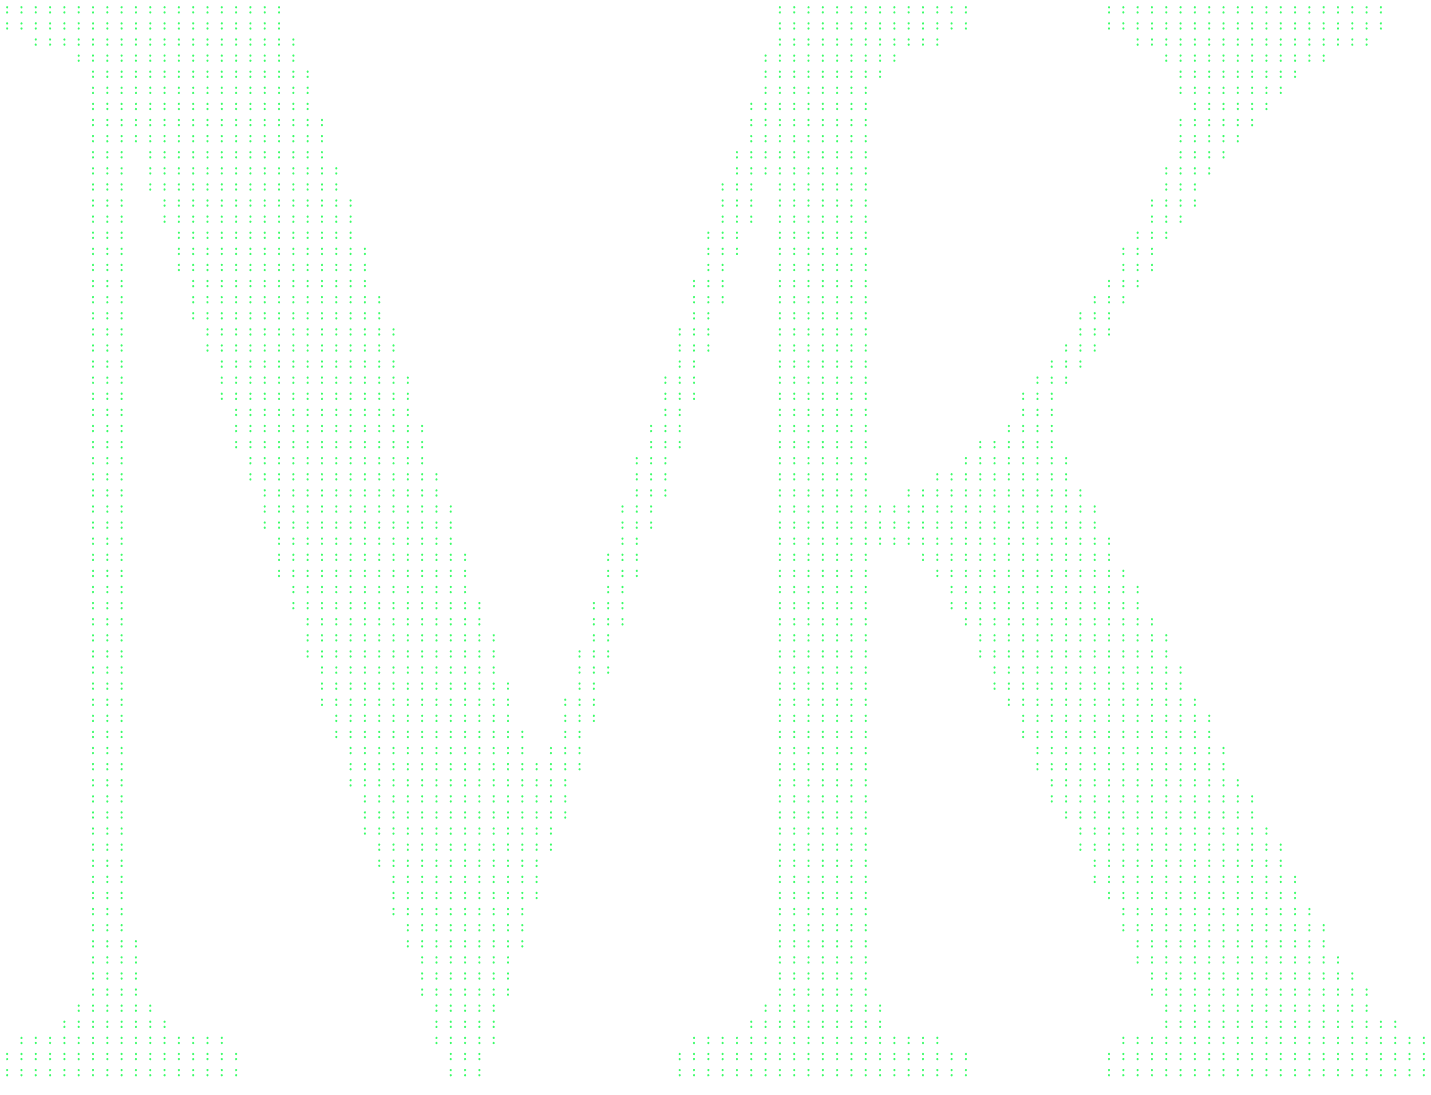
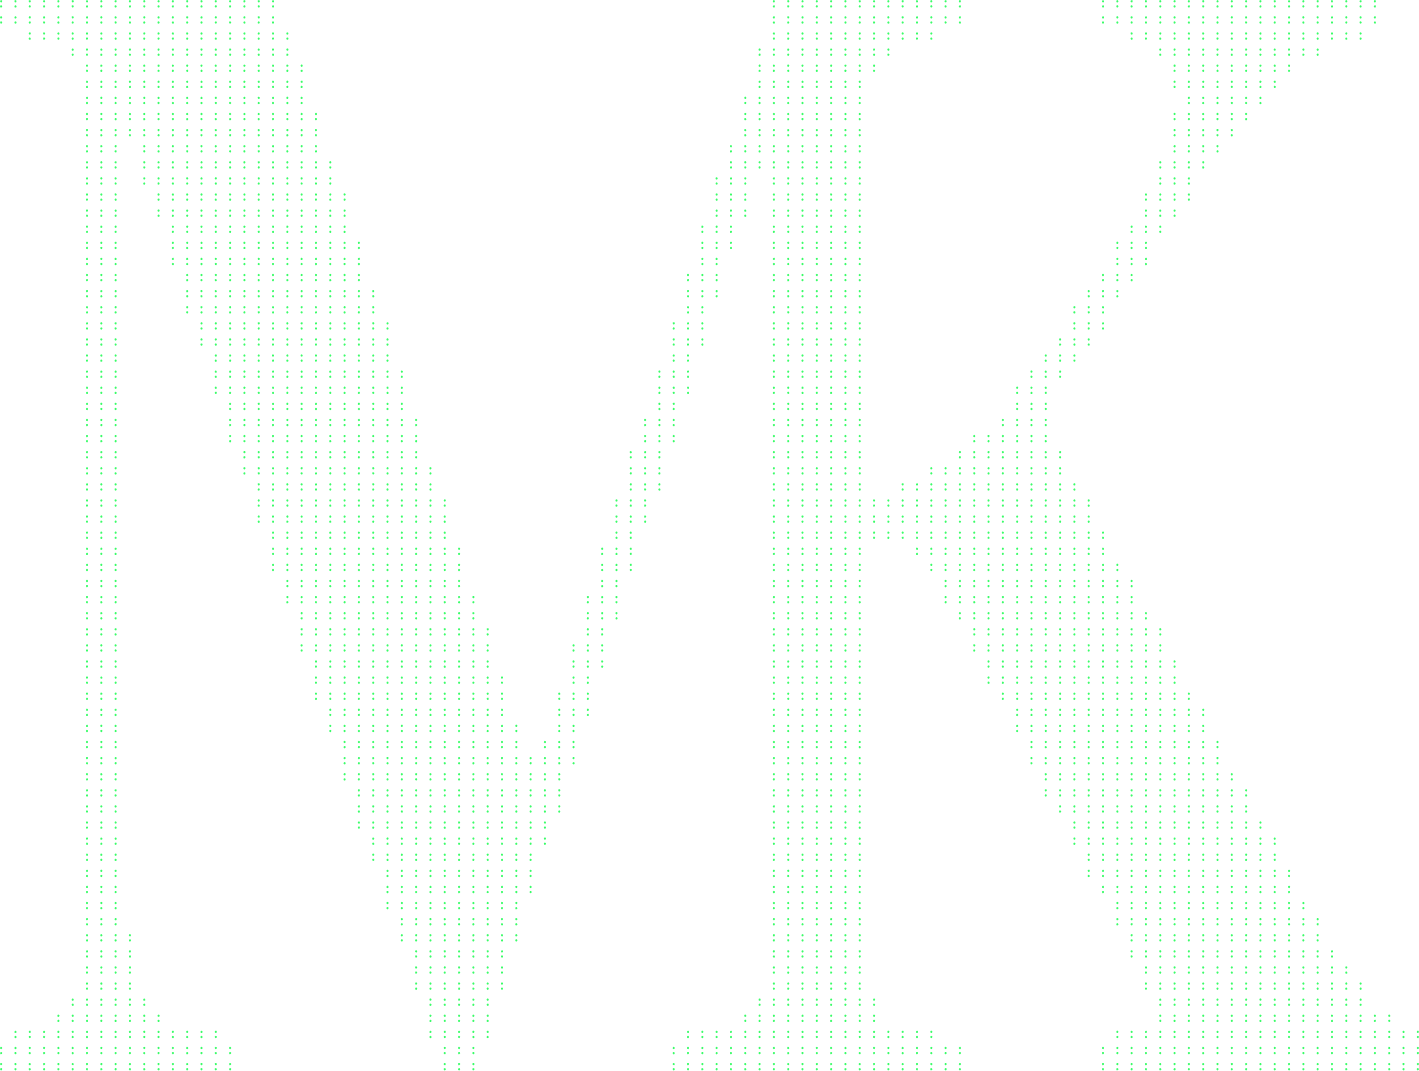
Footer credit, hero gap, MK crop, and side-fading grid
- Footer credit block covers the grid lines behind it, keeping its left edge
- Hero to Selected Work gap is 1 row of squares + 1 band on desktop
- Crop the ASCII MK graphic so it sits flush with its box
- Fade the background grid and bands outside the 12 content columns
- Cache-bust stylesheet, script, and MK image links

diff --git a/styles.css b/styles.css
@@ -57,6 +57,14 @@ a { color: inherit; }
      is measured against .page by every descendant. */
   --px: min(calc(100cqw / 1440), calc(100svh / 960));
   --cell: calc(120 * var(--px));
+  /* Side fade: the grid outside the 12 content columns fades out toward the
+     window edges, so cut squares at the edges never show. */
+  --side: calc((100cqw - 12 * var(--cell)) / 2);
+  --side-fade: linear-gradient(90deg,
+    transparent 0,
+    #000 var(--side),
+    #000 calc(100cqw - var(--side)),
+    transparent 100cqw);
 }
 
 .page-grid {
@@ -68,6 +76,8 @@ a { color: inherit; }
   background-size: var(--cell) var(--cell);
   /* align the lines with the centered content's columns */
   background-position: calc((100cqw - 12 * var(--cell)) / 2) 0;
+  -webkit-mask-image: var(--side-fade);
+  mask-image: var(--side-fade);
   pointer-events: none;
 }
 
@@ -96,6 +106,9 @@ a { color: inherit; }
   height: var(--cell);
   background: var(--color-page);
   box-shadow: inset 0 1px var(--color-grid-line), inset 0 -1px var(--color-grid-line);
+  /* the band spans the window like the grid, so its lines fade the same way */
+  -webkit-mask-image: var(--side-fade);
+  mask-image: var(--side-fade);
   pointer-events: none;
 }
 
@@ -249,6 +262,12 @@ a { color: inherit; }
 /* ---------- Selected Work: rows 11–16 ---------- */
 
 .work { grid-template-rows: repeat(6, var(--cell)); }
+/* The hero's last row (8) is already a row of empty squares, so this gap
+   only needs the flat band: 1 row of squares + 1 band. (Desktop only: on
+   phones the hero ends with the MK graphic, so the full gap stays.) */
+@media (min-width: 900px) {
+  .hero + main > .work.gap { margin-top: var(--cell); }
+}
 .work-heading { grid-column: 2 / 12; }
 
 .card {
@@ -414,6 +433,10 @@ a { color: inherit; }
   line-height: 1.2857;
   letter-spacing: -0.02em;
   color: var(--color-text-muted);
+  /* hide the grid lines behind the credit, but keep its left edge so the
+     square outside it (column 1) stays closed */
+  background: var(--color-page);
+  box-shadow: inset 1px 0 var(--color-grid-line);
 }
 .cta-footer strong { font-weight: 600; color: var(--color-white-pure); }
 

diff --git a/index.html b/index.html
@@ -15,7 +15,7 @@
     href="https://fonts.googleapis.com/css2?family=Geist:wght@100..900&family=Geist+Mono:wght@100..900&display=swap"
     rel="stylesheet"
   />
-  <link rel="stylesheet" href="styles.css" />
+  <link rel="stylesheet" href="styles.css?v=7" />
 </head>
 <body>
   <div class="page" id="top">
@@ -50,7 +50,7 @@
       </a>
 
       <div class="mk hero-mk" aria-hidden="true">
-        <img src="assets/mk-graphic@3x.png" alt="" />
+        <img src="assets/mk-graphic@3x.png?v=2" alt="" />
       </div>
     </header>
 
@@ -142,12 +142,12 @@
         </div>
 
         <div class="mk cta-mk" aria-hidden="true">
-          <img src="assets/mk-graphic@3x.png" alt="" />
+          <img src="assets/mk-graphic@3x.png?v=2" alt="" />
         </div>
     </footer>
   </div>
 
   <script src="https://unpkg.com/lenis@1.3.27/dist/lenis.min.js"></script>
-  <script src="main.js"></script>
+  <script src="main.js?v=3"></script>
 </body>
 </html>

diff --git a/visual-brain.html b/visual-brain.html
@@ -15,7 +15,7 @@
     href="https://fonts.googleapis.com/css2?family=Geist:wght@100..900&family=Geist+Mono:wght@100..900&display=swap"
     rel="stylesheet"
   />
-  <link rel="stylesheet" href="styles.css" />
+  <link rel="stylesheet" href="styles.css?v=7" />
 </head>
 <body class="cs-page">
   <div class="page" id="top">
@@ -132,12 +132,12 @@
         </div>
 
         <div class="mk cta-mk" aria-hidden="true">
-          <img src="assets/mk-graphic@3x.png" alt="" />
+          <img src="assets/mk-graphic@3x.png?v=2" alt="" />
         </div>
     </footer>
   </div>
 
   <script src="https://unpkg.com/lenis@1.3.27/dist/lenis.min.js"></script>
-  <script src="main.js"></script>
+  <script src="main.js?v=3"></script>
 </body>
 </html>

diff --git a/website-builder.html b/website-builder.html
@@ -15,7 +15,7 @@
     href="https://fonts.googleapis.com/css2?family=Geist:wght@100..900&family=Geist+Mono:wght@100..900&display=swap"
     rel="stylesheet"
   />
-  <link rel="stylesheet" href="styles.css" />
+  <link rel="stylesheet" href="styles.css?v=7" />
 </head>
 <body class="cs-page">
   <div class="page" id="top">
@@ -131,12 +131,12 @@
         </div>
 
         <div class="mk cta-mk" aria-hidden="true">
-          <img src="assets/mk-graphic@3x.png" alt="" />
+          <img src="assets/mk-graphic@3x.png?v=2" alt="" />
         </div>
     </footer>
   </div>
 
   <script src="https://unpkg.com/lenis@1.3.27/dist/lenis.min.js"></script>
-  <script src="main.js"></script>
+  <script src="main.js?v=3"></script>
 </body>
 </html>
